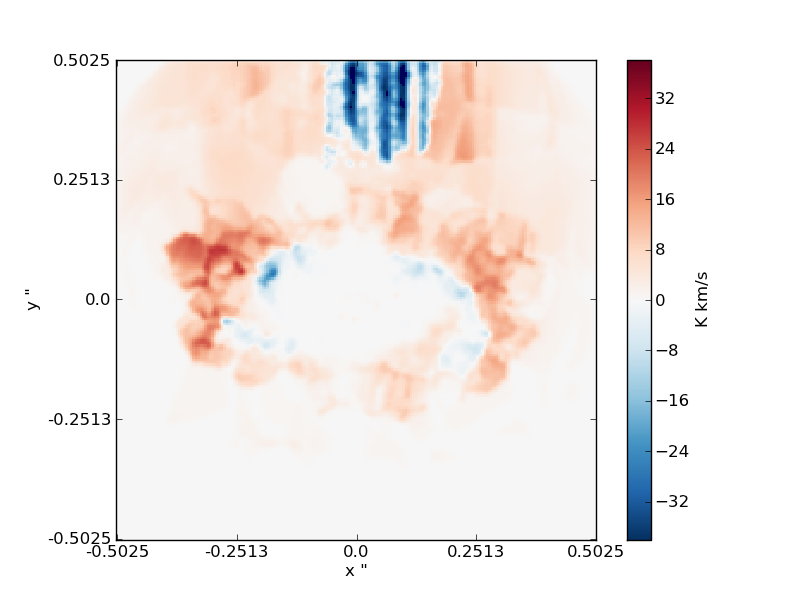
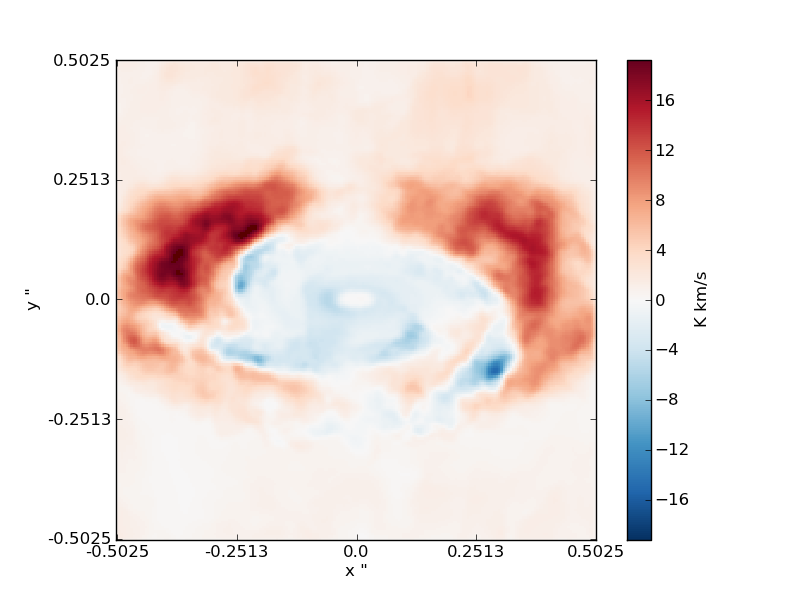
More figures, some small tweaks to text

diff --git a/paper.tex b/paper.tex
@@ -73,7 +73,7 @@ circumstellar matter -- infrared: stars.
 \section{Description of the Model}
 
 %-describe the envelope structure (pre-stellar core)
-The model used to simulate the emission from a young protoplanetary disc is a hybrid model created from hydrodynamical models of an infalling prestellar core and a gravitationally unstable protoplanetary disc. The prestellar core model is based upon the model of Keto \& Caselli (2010). This describes an infalling pre-stellar core, with densities temperatures and velocities given by the model of the collapse of a 10 solar mass Bonnor-Ebert sphere and provides a match to line profiles seen in the pre-stellar core L1544. Some slight modification due to the addition of Oxygen lines (Keto et al 2012 in prep) have been been added to this model resulting in a slight decrease in the peak infall velocity. This prestellar core model extends from 80$\,$au out to 10,000$\,$AU. The model is a 1D spherically symmetric model with inward motions (see figure \ref{l1544model}).\newline
+The physical and chemical models used to simulate the emission from a young protoplanetary disc is a hybrid model created from hydrodynamical models of an infalling prestellar core and a gravitationally unstable protoplanetary disc. The prestellar core model is based upon the model of Keto \& Caselli (2010). This describes an infalling pre-stellar core, with densities temperatures and velocities given by the model of the collapse of a 10 solar mass Bonnor-Ebert sphere and provides a match to line profiles seen in the pre-stellar core L1544. Some slight modification due to the addition of Oxygen lines (Keto et al 2012 in prep) have been been added to this model resulting in a slight decrease in the peak infall velocity. This prestellar core model extends from 80$\,$au out to 10,000$\,$AU. The model is a 1D spherically symmetric model with inward motions (see figure \ref{l1544model}).\newline
 
 
 \begin{figure}
@@ -85,7 +85,13 @@ The model used to simulate the emission from a young protoplanetary disc is a hy
 \begin{figure*}
  \includegraphics[width=168mm]{Figures/model/rhoT2.png}
  \label{rhoT} 
- \caption{Left: A 3D plot of log density (m$^3$) showing the spiral structure in the xy plane and scale height of the disc. Right: The 3D temperature structure of the disc; regions less than 40 degrees are not shown in 3D, demonstrating the narrow central region containing hot material.}
+ \caption{Left: A 3D plot of log number density (m$^{-3}$) showing the spiral structure in the xy plane and scale height of the disc. Right: The 3D temperature structure of the disc; regions cooler than 40 degrees are not shown in 3D, demonstrating the narrow central region containing hot material.}
+\end{figure*}
+
+\begin{figure*}
+ \includegraphics[width=168mm]{Figures/model/columnDensities2.png}
+ \label{Chemistry} 
+ \caption{Column densities of H$_2$CO, OCS and HCO$^+$ used in the disc model. Figure adapted from Ilee at al. (2011)}
 \end{figure*}
 
 \begin{figure}
@@ -101,14 +107,14 @@ At radii less than 80$\,$au the physical structure is given by the hydrodynamic 
 %-describe the chemistry  - refer to Ilee et al. which have been taken as input to the rad transfer (RT) code
 Chemical abundances in the disc were taken from Ilee et. al (2011) which followed the changes of chemical abundances of trace particles moving through the disc as it evolved. The abundances of 125 species related by 1334 reactions were followed through the time evolution of the disc. These abundances were interpolated onto a 51$^3$ grid covering the disc with cells of size 2.2$\times$2.2$\times$0.22$\,$au. Abundances in the envelope model were as follows:\newline
 
-(tableify this?)\newline
-HCO$^+$: as the H2O profile from Caselli (2012, submitted) scaled so that the maximum abundance is 10$^{-8}$\newline
-HNO: constant abundance of 5$\times$10${-11}$\newline
-HCS$^+$: 10$^{-11}$\newline
-OCS: constant abundance of 10$^{-9}$\newline
+%(tableify this?)
+HCO$^+$: As the H$_2$O profile from Caselli et al. (2012, submitted) scaled so that the maximum abundance is 10$^{-8}$\newline
+HNO: Constant abundance of 5$\times$10$^{-11}$\newline
+HCS$^+$: Constant abundance of 10$^{-11}$\newline
+OCS: Constant abundance of 10$^{-9}$\newline
 H$_2$CO: 1.5$\times$10$^{-9}$ decreased by a factor of 40 at radii less than 8250au (Young et al 2004)\newline
 CS:  3$\times$10$^{-9}$ decreased by a factor of 10,000 at radii less than 6700au (Tafalla, santiago-garcia and myers 2006)\newline
-CO: as the H2O profile from Caselli (2012, submitted) scaled so that the maximum abundance is CO maximum\newline
+CO: As the H2O profile from Caselli (2012, submitted) scaled so that the maximum abundance is CO maximum ***which is....***\newline
 
 
 %-describe the RT used (LIME) 
@@ -122,9 +128,9 @@ LIME (Brinch 2011), the radiative transfer program used, calculates line intensi
 \end{figure}
 
 \begin{figure}
- \includegraphics[width=84mm]{Figures/model/lime_points_rz2.png}
+ \includegraphics[width=84mm]{Figures/model/lime_points_rz_histo.png}
  \label{points}
- \caption{A plot of the positions of the points selected to sample the model}
+ \caption{A histogram of the point distribution throughout the model.}
 \end{figure}
 
 In order to construct the grid, points are randomly selected from the volume being simulated then compared against a reference point. Grid points are selected at random in cylindrical co-ordinates, linearly spaced in z and $\phi$ and logarithmically spaced in r. For each point to be selected a random number $\alpha$ is drawn from the semi-open set [0,$\,$1) as a threshold. After selection of random co-ordinates the Hydrogen density and molecular density at the point (n and m) are compared against the densities of a reference point on the inner edge of the disc (n$_0$ and m$_0$). If $\alpha<\left( \frac{n}{n_0} \right)^{0.3}$ or $\alpha< \left( \frac{m}{m_0} \right)^{0.3}$ then the point is selected for use, if not then another r, $\phi$, z co-ordinate is selected. The weighting function and griding functions were selected empirically to sample both the all scales while ensuring the majority of the points went into the inner disc which is the region of interest. 20\% of these points are forced to be at radii greater than $\sqrt{R_{min}R_{max}}$ (where $R_{min}$ and $R_{max}$ are the inner and outer radius of the model) in order to stop too many of the selecected points clustering in the high density disc and leaving the envelope undersampled. In addiation to this method of selection 5\% of the points are linearly distributed in x, y and z with no bias with regards to density or abundance. This provides a minimum level of sampling for the large low density regions in the outer parts of the simulated volume. See figure \ref{points} for example of the points distribution in r, z. \newline
@@ -132,7 +138,7 @@ In order to construct the grid, points are randomly selected from the volume bei
 \begin{figure}
  \includegraphics[width=84mm]{Figures/sim/average_comparison.png}
  \label{averages}
- \caption{A plot showing the difference between a single LIME continuum image at 300$\,$GHz and the average of ten such images from different runs of the same model in LIME}
+ \caption{A plot showing the difference between a single LIME continuum image at 300$\,$GHz (right) and the average of ten such images from different runs of the same model in LIME (left).}
 \end{figure}
 
 
@@ -162,7 +168,7 @@ The simulations done are focused upon frequencies within ALMA band 7, selected t
  \caption{CO J=3-2 PV through y=0''}
 \end{figure}
 
-Figures 6,7 and 8 show synthetic images of the CO J=3-2 line at 345.8$\,$GHz. As the upper level for this line is at 33$\,$K above the ground state this transition should be excited through out disc. given the large and uniform nature of the abundance of CO in the disc this line will be optically thick and this is only mapping the outer regions of the disc. In common with most transitions simulated, the line is seen almost exclusively in absorption of the disc continuum. The region of emission in the centre is where there is no continuum background to be absorbed.  Some indications of spiral structure can be seen but are indistinct. ***not sure how useful these are, might be worth cutting them?***\newline
+Figures 6,7 and 8 show synthetic images of the CO J=3-2 line at 345.8$\,$GHz. As the upper level for this line is at 33$\,$K above the ground state this transition should be excited through out disc. given the large and uniform nature of the abundance of CO in the disc this line will be optically thick and this is only mapping the outer regions of the disc. In common with most transitions simulated, the line is seen almost exclusively in absorption against the disc continuum. The region of emission in the centre is where there is no continuum background to be absorbed.  Some indications of spiral structure can be seen but are indistinct. ***not sure how useful these are, might be worth cutting them?***\newline
 
 
 
@@ -178,7 +184,7 @@ Figures 6,7 and 8 show synthetic images of the CO J=3-2 line at 345.8$\,$GHz. As
  \caption{OCS 28-27 PV through centre}
 \end{figure}
 
-The OCS lines in alma band 7 (22-21 through 30-29) with upper energy levels between 161 and 271 K above the ground state provide a way to trace hot shocked gas in spiral arms without resolving structure. Figures \ref{OCS_mom0} \& \ref{smoothOCS_mom0} show the integrated intensity of the OCS J=28-27 line in the model described previously and one where the disc section of the model is an axis-symmetric model created by taking the azimuthal average of density, temperature and molecular abundance. The order of magnitude difference in the line intensity provides a method to detect hot dense gas without being able to resolve the spiral structure spatially.\newline
+After looking at a variety of lines which could be observed of ALMA band 6 or 7 (211-275$\,$GHz and 275-373$\,$GHz) we found that the OCS lines in alma band 7 (22-21 through 30-29) with upper energy levels between 161 and 271 K above the ground state provide a way to trace hot shocked gas in spiral arms without resolving structure. Figures \ref{OCS_mom0} \& \ref{smoothOCS_mom0} show the integrated intensity of the OCS J=28-27 line in the model described previously and one where the disc section of the model is an axis-symmetric model created by taking the azimuthal average of density, temperature and molecular abundance. The order of magnitude difference in the line intensity provides a method to detect hot dense gas without being able to resolve the spiral structure spatially.\newline
 
 \begin{figure}
  \includegraphics[width=84mm]{Figures/sim/imagesmoothedOCS_28-27_30deg_contSub.png}
@@ -217,26 +223,103 @@ More complex molecules such as H$_2$CO with many closely spaced spectral lines c
 (figure of temperature as a function of line ratio for 2 sets of formaldehyde lines and map of derived temperature, talk to P about this. This doesn't seem doable with the lines around 1mm for alma)\newline
 
 \begin{figure}
- \includegraphics[width=84mm]{Figures/sim/imageHCOp_3-2_30deg_contSub.png}
+ \includegraphics[width=84mm]{Figures/sim/imageHCOp_1-0_30deg_contSub.png}
 
- \caption{HCO$^+$ 3-2 Continuum subtracted mom0}
+ \caption{HCO$^+$ 1-0 Continuum subtracted mom0}
 \end{figure}
 
 \begin{figure}
- \includegraphics[width=84mm]{Figures/sim/imageHCOp_3-2_30deg_mom1.png}
+ \includegraphics[width=84mm]{Figures/sim/imageHCOp_1-0_30deg_mom1.png}
 
- \caption{HCO$^+$ 3-2 mom1map}
+ \caption{HCO$^+$ 1-0 mom1map}
+\end{figure}
+
+\begin{figure}
+ \includegraphics[width=84mm]{Figures/sim/imageHCOp_1-0_30deg_PV_centre.png}
+
+ \caption{HCO$^+$ 1-0 pv through centre}
 \end{figure}
 
 \begin{figure}
  \includegraphics[width=84mm]{Figures/sim/imageHCOp_3-2_30deg_PV_centre_2.png}
-
+ \label{hcop_pv}
  \caption{HCO$^+$ 3-2 PV through centre with rotation curve from figure \ref{velocity} *** should the velocities in this be reduced by cos(30) as we're not in the plane of rotation? ***}
 \end{figure}
 
-Some molecules such as HCO$^+$ trace only the outer regions of the disc (ref ilee 2011) and so can be used to look at the extended velocity and physical structure. In these colder less dense regions we see the molecular lines in emission rather than absorption \newline
+Some molecules such as HCO$^+$ trace only the outer regions of the disc (Ilee 2011) and so can be used to look at the extended velocity and physical structure. In these colder less dense regions we see the molecular lines in emission rather than absorption. Figure \ref{hcop_pv} shows the rotation curve of the model as shown in figure \ref{velocity} against the HCO$^+$ J=3-2 line emission. It is clear that from observations such as these the rotation curve of a disc could be reconstructed.\newline
 \newline \newline
 
+
+
+
+In all the simulations except HCO$^+$ we see molecular lines in absorption throughout the majority of the disc and in some cases a small amount of emission towards the centre, where the inclination of the disc allows us the view the low density but moderate temperature region inside the inner edge of the spiral structures without any high temperature and density material behind it.\newline
+
+
+
+
+\section{ALMA Predictions}
+
+%- current status (Cycle 1) - Figure
+%OCS + C18O + H2CO + HNO/CS/
+%- final status - Figure 
+
+
+\begin{figure}
+ \includegraphics[width=84mm]{Figures/sim/casa_cont_337GHz.png}
+
+ \caption{continuum emission at 337GHz simulated for ALMA most extended configuration}
+\end{figure}
+
+\begin{figure}
+ \includegraphics[width=54mm]{Figures/sim/casa_OCS_28-27_pv.png}
+
+ \caption{OCS 28-29 pv diagram simulated for ALMA most extended configuration}
+\end{figure}
+
+
+\begin{figure}
+ \includegraphics[width=84mm]{Figures/sim/casa_OCS_28-27_mom0.png}
+
+ \caption{OCS 28-29 integrated intesity simulated for ALMA most extended configuration}
+\end{figure}
+
+
+\begin{figure}
+ \includegraphics[width=54mm]{Figures/sim/casa_C17O_3-2_pv.png}
+
+ \caption{C17O 3-2 30 deg PV through centre simulated for ALMA most extended configuration}
+\end{figure}
+
+\begin{figure}
+ \includegraphics[width=84mm]{Figures/sim/casa_C17O_3-2_mom0.png}
+
+ \caption{C17O 3-2 30 deg integrated intensity simulated for ALMA most extended configuration}
+\end{figure}
+
+
+
+
+\section{Discussion}
+
+In this paper we have performed radiative transfer simulations of a hybrid model comprising a 0.4$\, M_\odot$ self gravitating disc with radius 64$\,AU$ showing spiral density waves, surrounded by an envelope simulated as a collapsing 10$\,M_\odot$ BE-sphere. CASA simulations show that at a distance of 100$\,$pc both spatial resolution of the spirals in such a disc and extraction of kinematic and temperature from molecular lines are possible in ALMA band 7. Our simulations show that many  molecular species are predominantly seen in absorption towards the centre of  self-gravitating protoplanetary discs.\newline
+The quiescent nature of the envelope around such discs only obscures them within $\pm\,0.5 km\,s^{-1}$.\newline
+Hot, shocked gas can be detected in such a disc without resolving it by observing OCS transitions between 26-27 to 30-29.\newline
+One assumption made in this model is that the gas and dust are in thermal equilibrium. If they are not and the dust is significantly cooler than the gas then transitions may not show up in absorption. In the model spirals shock heat the mid-plane layer and the colder more diffuse gas absorbs the continuum from it (need to ask Aaron whether this is the case, the narrow mid-plane is much hotter than the rest but should check that this is due to shock heating, though with there being no accretion or irradiation i don't see what else it could be)\newline
+note that the disc mass is on the high end for early discs\newline
+rotation curves can be gathered from these observations even with spiral structure\newline
+
+
+
+
+\section*{Acknowledgements}
+
+stuff here
+\newpage
+
+
+\appendix
+
+\section[]{Other Inclinations}
 
 Figures showing different inclinations  
 \begin{figure}
@@ -334,42 +417,6 @@ Figures showing different inclinations
  \caption{C18O 3-2 75 deg PV through centre}
 \end{figure}
 
-
-In all the simulations except HCO$^+$ we see molecular lines in absorption throughout the majority of the disc and in some cases a small amount of emission towards the centre, where the inclination of the disc allows us the view the low density but moderate temperature region inside the inner edge of the spiral structures.\newline
-
-
-
-
-\section{ALMA Predictions}
-
-%- current status (Cycle 1) - Figure
-%OCS + C18O + H2CO + HNO/CS/
-%- final status - Figure 
-
-
-casa continuum, OCS and HCO+ figs here
-
-
-\section{Discussion}
-
-In this paper we have performed radiative transfer simulations of a hybrid model comprising a 0.4$\, M_\odot$ self gravitating disc with radius 64$\,AU$ showing spiral density waves, surrounded by an envelope simulated as a collapsing 10$\,M_\odot$ BE-sphere. CASA simulations show that at a distance of 100$\,pc$ both spatial resolution of the spirals in such a disc and extraction of kinematic and temperature from molecular lines are possible in ALMA band 7. Our simulations show that many  molecular species are predominantly seen in absorption towards the centre of  self-gravitating protoplanetary discs.\newline
-The quiescent nature of the envelope around such discs only obscures them within $\pm\,0.5 km\,s^{-1}$.\newline
-Hot, shocked gas can be detected in such a disc without resolving it by observing OCS transitions between 26-27 to 30-29.\newline
-Mention that dust and gas are assumed to be in temperature equilibrium if they aren't and dust is significantly cooler then transitions may not show up in absorption. atm spirals shock heat the mid-plane layer and the colder more diffuse gas absorbs the continuum from it (need to ask Aaron whether this is the case, the narrow mid-plane is much hotter than the rest but should check that this is due to shock heating, though with there being no accretion or irradiation i don't see what else it could be)\newline
-note that the disc mass is on the high end for early discs\newline
-rotation curves can be gathered from these observations even with spiral structure\newline
-
-
-
-
-\section*{Acknowledgements}
-
-stuff here
-
-
-%\appendix
-%
-%\section[]{Large gaps in L\lowercase{y}${\balpha}$ forests\\* due to fluctuations in line %distribution}
 %
 %(This appendix was not part of the original paper by
 %A.V.~Raveendran and is included here just for illustrative
